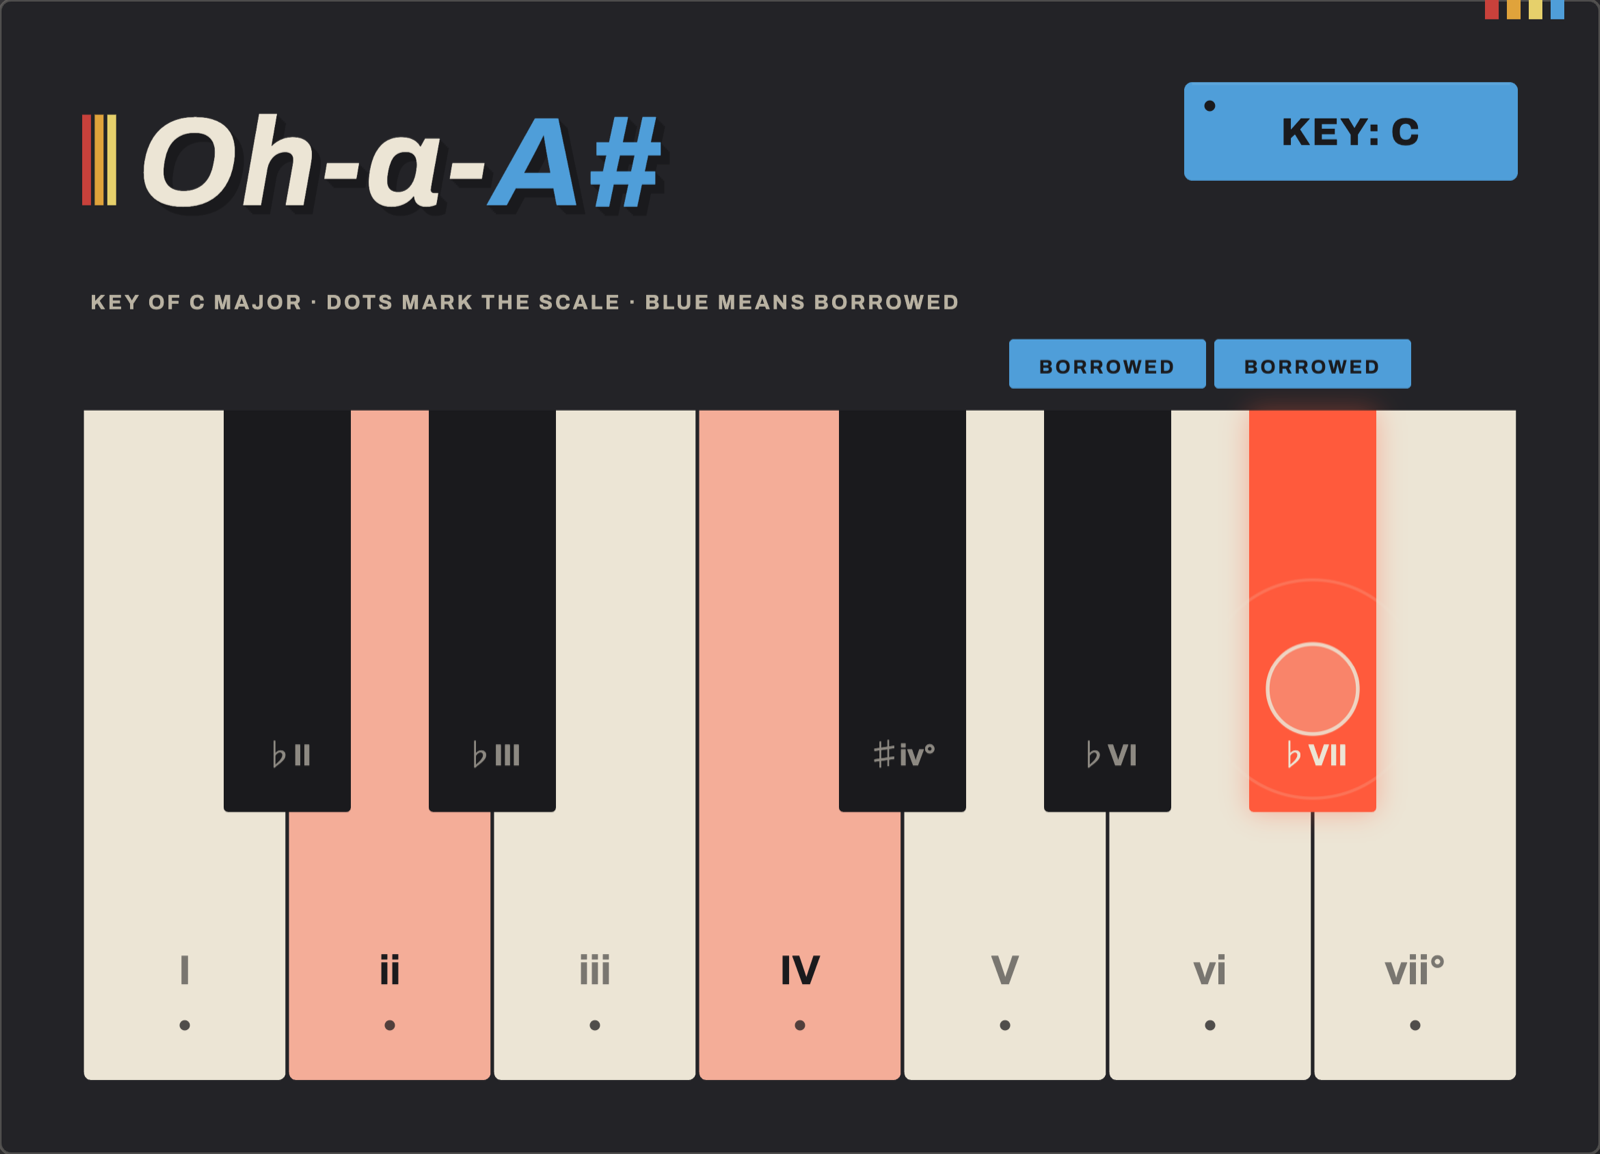
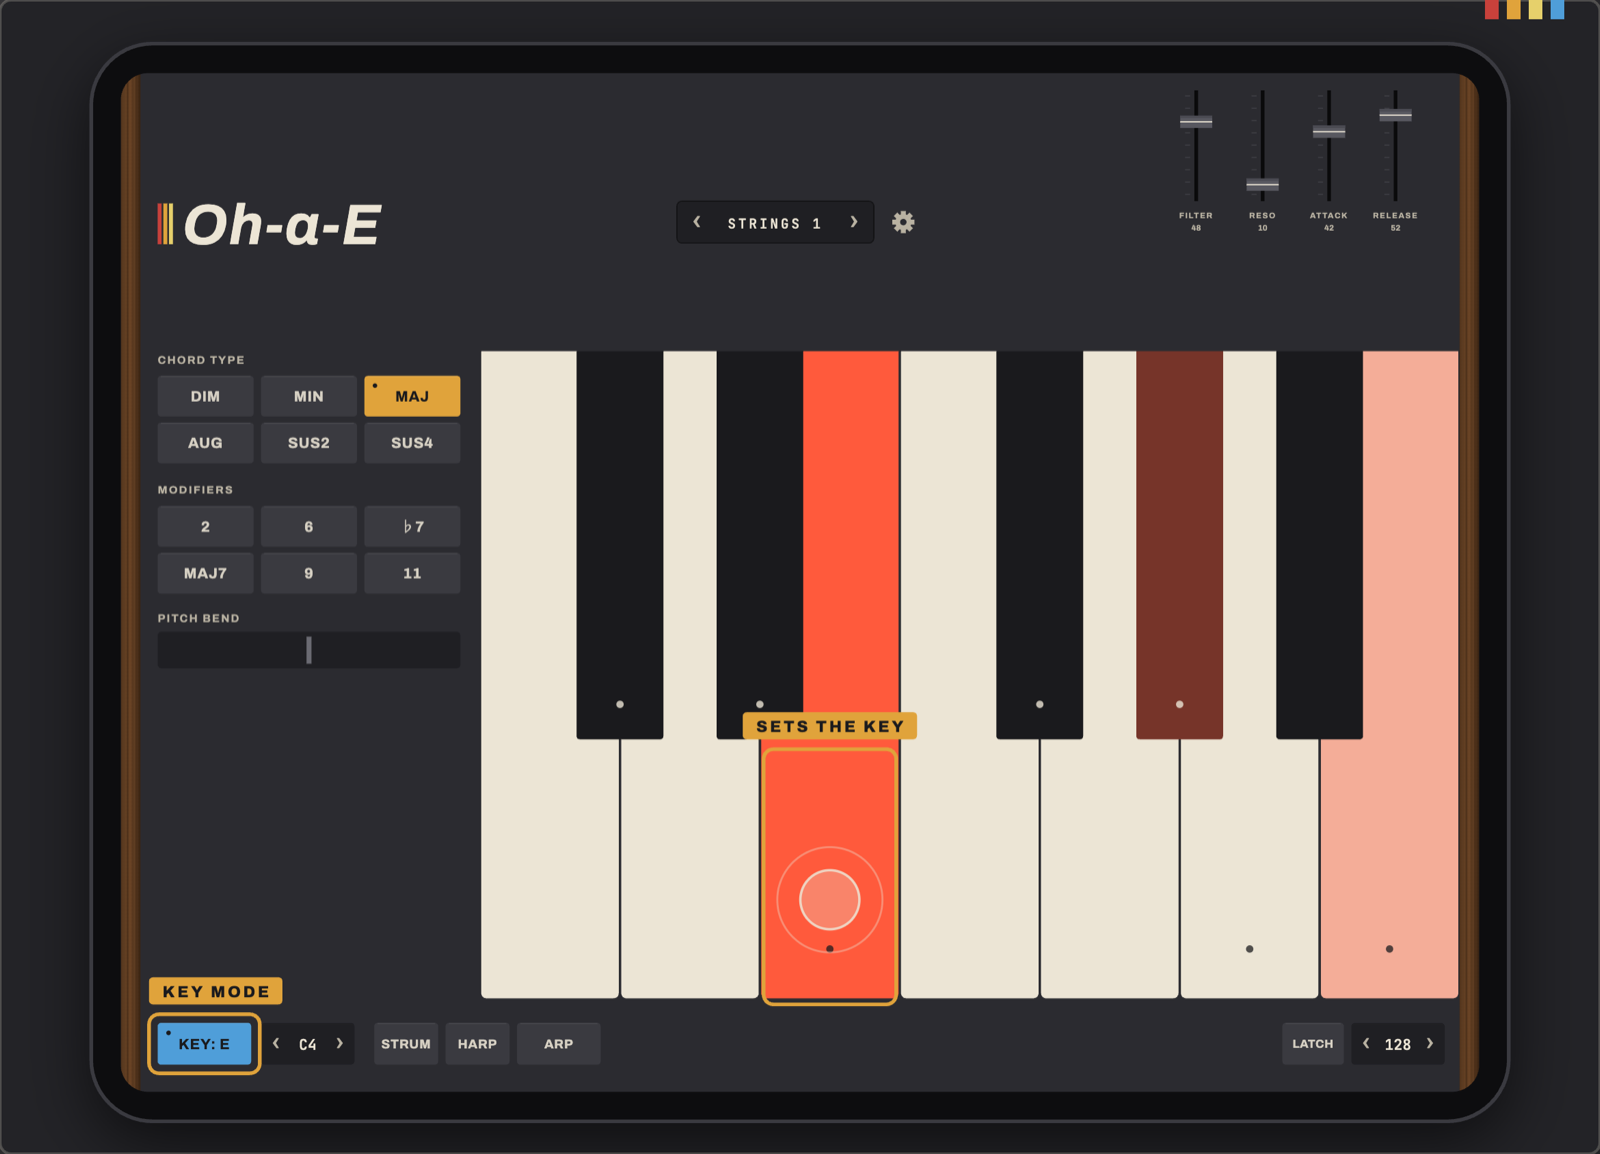
Oh-a-Chord: Key Mode image shows the key being set; old images removed
The Key Mode still is now the moment Key Mode captures the key, drawn
from the showreel's app-screen renderer: KEY was armed, the press on E
sets the key, and the bottom-bar KEY button is lit blue reading
"KEY: E", as the app does. E major so the scale dots land on black keys
too (F#, G#, C#, D#), not only the white keys C major would show. The
pressed key is ringed below the black keys and tagged SETS THE KEY; the
KEY button is ringed and tagged KEY MODE. Caption and alt text match.

Deletes the five chord-ui-* App Store screenshots, which nothing
references now, and the generate-assets entry that would have recreated
chord-ui-presets.png as a placeholder.

diff --git a/oh-a-chord.html b/oh-a-chord.html
@@ -156,9 +156,9 @@
           </div>
           <figure class="media-slot" data-reveal>
             <div class="frame ar-chord">
-              <img src="assets/img/chord-reel-keymode.png" loading="lazy" width="1600" height="1154" alt="Key Mode set to C. The keyboard is labelled with scale degrees, and the ♭VII key plays Oh-a-A#, marked as a borrowed chord." data-slot-attr="alt:features.1.mediaAlt">
+              <img src="assets/img/chord-reel-keymode.png" loading="lazy" width="1600" height="1154" alt="Oh-a-Chord the moment Key Mode sets the key. KEY was armed, and the finger pressing E makes E the key: the KEY button is lit blue and reads KEY: E, dots mark the E major scale including the black keys, and the E major chord sounds." data-slot-attr="alt:features.1.mediaAlt">
             </div>
-            <figcaption data-slot="features.1.mediaCaption">Key of C. Reach outside it and the ♭VII is borrowed, not silenced.</figcaption>
+            <figcaption data-slot="features.1.mediaCaption">KEY armed, then E pressed. That press sets the key; the dots mark E major.</figcaption>
           </figure>
         </article>
 
